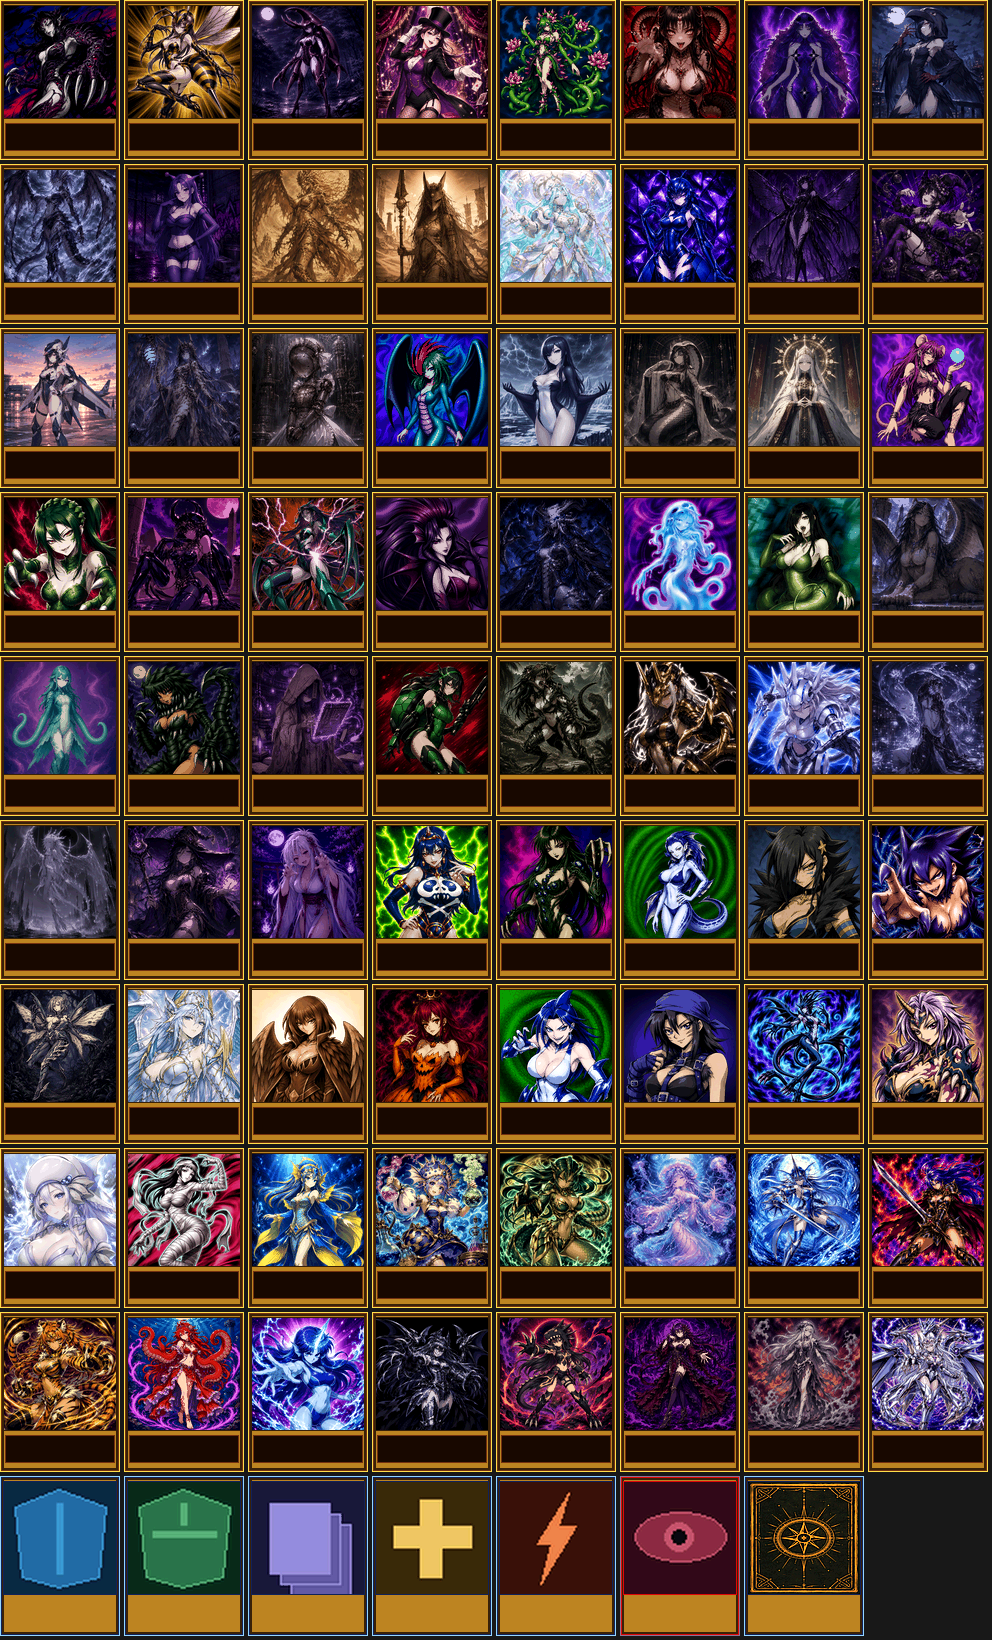
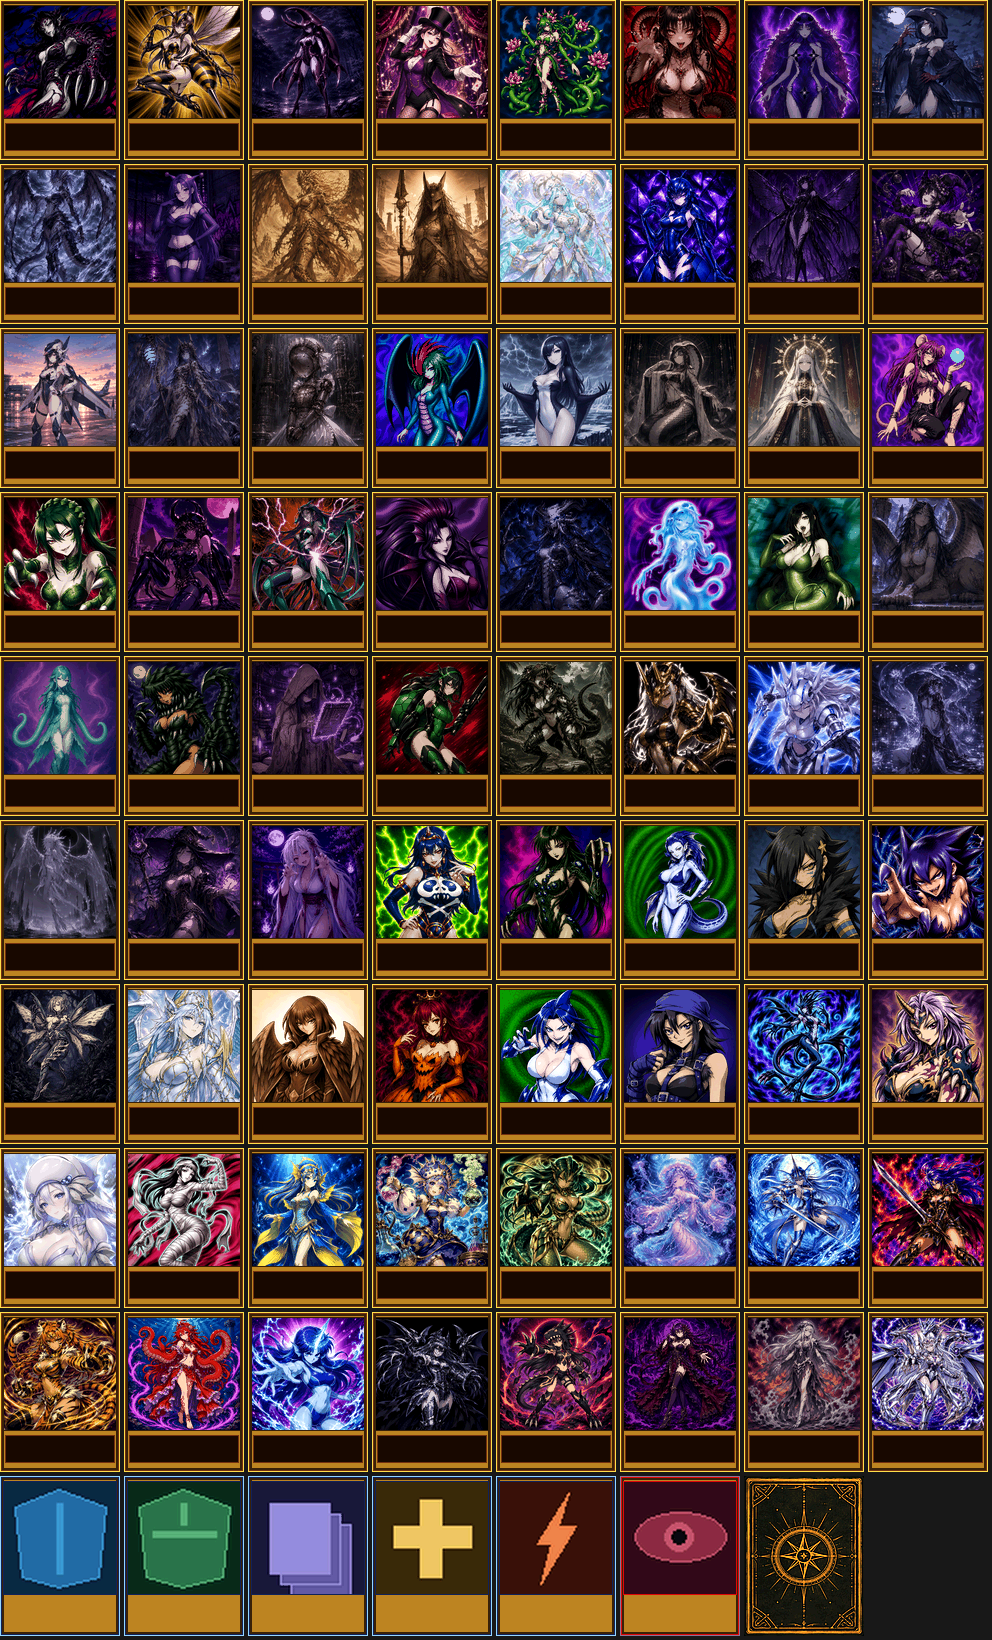
snes: reset the Mode 3 state on duel entry, bake the back card frameless
A duel decided inside the battle scene leaves through result_scene with
mode3_active still 2, so the next duel (a story battle after a random
one) began with an empty sprite list and its vblank routed to the battle:
no hand, no HUD text, until the COM's first attack cleared it through
end_battle_art.  snesDuelEnter now resets the whole Mode 3 presentation
state (mode3_active, the effect and fusion beats, fusion_tm/backdrop).

The back cover carries its own frame, so the Mode 3 card presentation no
longer draws it inside the gold one: gen_snes_bigcards.py bakes the cover
edge to edge across the 120x160, its bottom five tile rows following the
palette in the same bank slot, and snes_cardart.c puts those at their own
VRAM tiles ($5800, above the Thunder burst atlas) instead of the shared
frame feet.

Claude-Session: https://claude.ai/code/session_01DTXLHp6R6hpzhMk1MeJ7dF

Changed region(s): [[0.75, 0.9018, 0.875, 1.0]]

diff --git a/src/snes/snes_cardart.c b/src/snes/snes_cardart.c
@@ -19,6 +19,17 @@
 #define FONT_COUNT      64u
 #define FEET_TILE       (SNES_BIGCARD_TILES * 2u)
 #define FEET_WORD       (FEET_TILE * 32u)
+/* THE BACK'S OWN BOTTOM ROWS.  The cover painting carries its frame, so it
+ * is baked edge to edge and its feet are seventy-five tiles in ITS colours,
+ * not the shared frame's -- and those do not fit under BLANK_TILE.  They
+ * go to the words above the card sheet: $5800 is past the burst atlas the
+ * Thunder beat loads at $4000 (snes_battle.c FX_OBJ_WORD, 12 KB) and below
+ * the duel's OBJ sheet at $6000, which no Mode 3 screen samples.  Only the
+ * victim beat can show a back (the check refuses one, a defender is
+ * flipped before its battle), so the battle's layout never meets them. */
+#define BACK_FEET_WORD  0x5800u
+#define BACK_FEET_TILE  (BACK_FEET_WORD / 32u)
+#define BACK_FEET_TILES (SNES_BIGCARD_TILES_X * SNES_BIGCARD_FOOT_ROWS)
 #define TEXT_PRIORITY   0x2000u
 /* An empty BG2 cell is the space glyph: BG2's character base is $7000, and
  * tile 0 there is the duel's top-view map, not a blank. */
@@ -128,6 +139,9 @@ void snesCardArtEnter(u8 navy)
         dmaCopyVram((u8 *)&sym[off], dest, SNES_BIGCARD_BYTES); \
         dmaCopyCGram((u8 *)&sym[(off) + SNES_BIGCARD_BYTES], SLOT_PAL(slot), \
                      SNES_BIGCARD_PAL_BYTES); \
+        if (face == SNES_CARD_BACK) \
+            dmaCopyVram((u8 *)&sym[(off) + SNES_BIGCARD_RECORD], \
+                        BACK_FEET_WORD, SNES_BIGCARD_BACK_FEET_BYTES); \
     } while (0)
 
 void snesCardArtLoad(u8 slot, u8 face)
@@ -145,18 +159,34 @@ void snesCardArtLoad(u8 slot, u8 face)
          * each tile's last plane pair (bytes 49, 51, .. 63). */
         for (r = 0; r < 8; ++r)
             vram_fill_high((u16)(dest + 24u + r), SNES_BIGCARD_TILES);
+        /* ...and the back's feet with them: they are read through the
+         * slot that loaded the back last. */
+        if (face == SNES_CARD_BACK)
+            for (r = 0; r < 8; ++r)
+                vram_fill_high((u16)(BACK_FEET_WORD + 24u + r), BACK_FEET_TILES);
     }
 }
 
-void snesCardArtPlace(u8 slot, u8 col, u8 face)
+/* The map cell of foot tile (tx, ty) of a card in slot `slot`: the shared
+ * frame foot of its kind, or the back's own. */
+static u16 foot_cell(u8 slot, u8 face, u8 ty, u8 tx)
 {
-    u8 tx, ty, kind;
-    u16 base = (u16)slot * SNES_BIGCARD_TILES;
+    u8 kind;
     const u8 *foot;
+    (void)slot;
+    if (face == SNES_CARD_BACK)
+        return (u16)(BACK_FEET_TILE + (u16)ty * SNES_BIGCARD_TILES_X + tx);
     kind = (face < SNES_CARD_FACES) ? snesCardInfoFrame(face)
                                     : SNES_BIGCARD_KIND_MONSTER;
     foot = &snes_bigcard_feet_map[(u16)kind * SNES_BIGCARD_TILES_X *
                                   SNES_BIGCARD_FOOT_ROWS * 2u];
+    return (u16)(FEET_TILE + foot[((u16)ty * SNES_BIGCARD_TILES_X + tx) * 2]);
+}
+
+void snesCardArtPlace(u8 slot, u8 col, u8 face)
+{
+    u8 tx, ty;
+    u16 base = (u16)slot * SNES_BIGCARD_TILES;
     for (ty = 0; ty < SNES_BIGCARD_TOP_ROWS; ++ty)
         for (tx = 0; tx < SNES_BIGCARD_TILES_X; ++tx)
             bg1_map[(u16)ty * 32 + col + tx] =
@@ -164,8 +194,7 @@ void snesCardArtPlace(u8 slot, u8 col, u8 face)
     for (ty = 0; ty < SNES_BIGCARD_FOOT_ROWS; ++ty)
         for (tx = 0; tx < SNES_BIGCARD_TILES_X; ++tx)
             bg1_map[(u16)(SNES_BIGCARD_TOP_ROWS + ty) * 32 + col + tx] =
-                (u16)(FEET_TILE +
-                      foot[((u16)ty * SNES_BIGCARD_TILES_X + tx) * 2]);
+                foot_cell(slot, face, ty, tx);
     bg1_dirty = 1;
 }
 
@@ -173,20 +202,14 @@ void snesCardArtPlace(u8 slot, u8 col, u8 face)
  * for a map that is not this file's: the battle's 32x64 one. */
 void snesCardArtRowCells(u8 slot, u8 face, u8 ty, u16 *cells)
 {
-    u8 tx, kind;
+    u8 tx;
     const u16 base = (u16)slot * SNES_BIGCARD_TILES;
-    const u8 *foot;
-    kind = (face < SNES_CARD_FACES) ? snesCardInfoFrame(face)
-                                    : SNES_BIGCARD_KIND_MONSTER;
-    foot = &snes_bigcard_feet_map[(u16)kind * SNES_BIGCARD_TILES_X *
-                                  SNES_BIGCARD_FOOT_ROWS * 2u];
     for (tx = 0; tx < SNES_BIGCARD_TILES_X; ++tx) {
         if (ty < SNES_BIGCARD_TOP_ROWS)
             cells[tx] = (u16)(base + ty * SNES_BIGCARD_TILES_X + tx);
         else
-            cells[tx] = (u16)(FEET_TILE +
-                              foot[((u16)(ty - SNES_BIGCARD_TOP_ROWS) *
-                                    SNES_BIGCARD_TILES_X + tx) * 2]);
+            cells[tx] = foot_cell(slot, face,
+                                  (u8)(ty - SNES_BIGCARD_TOP_ROWS), tx);
     }
 }
 

diff --git a/tools/snes/gen_snes_bigcards.py b/tools/snes/gen_snes_bigcards.py
@@ -60,6 +60,7 @@ CARD_COLOURS = 80
 CARD_FIRST = 32
 CARD_PAL_BYTES = CARD_COLOURS * 2
 CARD_RECORD = CARD_BYTES + CARD_PAL_BYTES
+BACK_FEET_BYTES = TILES_X * BOTTOM_ROWS * 64   # the back's own bottom rows
 CARDS_PER_BANK = 4
 FIRST_BANK = 30                 # $DE..; the OBJ sheets end at $CC
 COMMON_BANK = 50                # the frame feet and the card info table
@@ -238,7 +239,34 @@ def big_art(tag, path):
     return ga.face_art(tag, None, (ART, ART)).convert("RGB")
 
 
+def back_record():
+    """THE BACK IS ITS OWN FRAME, so it is not put inside the gold one: the
+    cover painting is fitted to the whole 120x160 and quantised as one
+    picture.  Its top fifteen tile rows are a record like any other; its
+    bottom five -- the seventy-five tiles the shared feet cannot hold in
+    its colours -- follow the palette in the same bank slot, and the runtime
+    puts them at their own VRAM tiles (snes_cardart.c BACK_FEET_TILE)."""
+    art = ga.card_back_art((CARD_W, CARD_H))
+    indexed = art.quantize(colors=CARD_COLOURS, method=Image.Quantize.MEDIANCUT,
+                           dither=Image.Dither.FLOYDSTEINBERG)
+    raw = indexed.getpalette()[:CARD_COLOURS * 3]
+    colours = [tuple(raw[i:i + 3]) for i in range(0, len(raw), 3)]
+    colours += [(0, 0, 0)] * (CARD_COLOURS - len(colours))
+    frame = [v + CARD_FIRST for v in indexed.getdata()]
+    tiles = bytearray()
+    for block in cut_tiles(frame, CARD_W, 0, 0, TILES_X, TOP_H // 8):
+        tiles += tile8(block)
+    assert len(tiles) == CARD_BYTES
+    feet = bytearray()
+    for block in cut_tiles(frame, CARD_W, 0, TOP_H, TILES_X, BOTTOM_ROWS):
+        feet += tile8(block)
+    assert len(feet) == BACK_FEET_BYTES
+    return bytes(tiles) + palette_bytes(colours) + bytes(feet), frame, colours
+
+
 def card_record(tag, path):
+    if tag == "back":
+        return back_record()
     art = big_art(tag, path)
     indexed = art.quantize(colors=CARD_COLOURS, method=Image.Quantize.MEDIANCUT,
                            dither=Image.Dither.FLOYDSTEINBERG)
@@ -407,6 +435,8 @@ def main():
                  "#define SNES_BIGCARD_FIRST_BANK %d\n"
                  "#define SNES_BIGCARD_BANKS      %d\n"
                  "#define SNES_BIGCARD_FEET_TILES %d\n"
+                 "/* The back's own bottom rows, after its record's palette. */\n"
+                 "#define SNES_BIGCARD_BACK_FEET_BYTES %d\n"
                  "#define SNES_BIGCARD_KIND_MONSTER 0\n"
                  "#define SNES_BIGCARD_KIND_SPELL   1\n"
                  "#define SNES_BIGCARD_KIND_TRAP    2\n"
@@ -423,7 +453,7 @@ def main():
                  % (CARD_W, CARD_H, TILES_X, TOP_H // 8, BOTTOM_ROWS, TOP_TILES,
                     CARD_BYTES, CARD_COLOURS, CARD_FIRST, CARD_PAL_BYTES,
                     CARD_RECORD, CARDS_PER_BANK, FIRST_BANK, banks,
-                    len(feet_tiles) // 64,
+                    len(feet_tiles) // 64, BACK_FEET_BYTES,
                     INFO_NAME_LEN, INFO_KIND_LEN, INFO_DESC_LEN, INFO_RECORD))
         for b in range(banks):
             fh.write("extern const u8 snes_bigcards_%d[];\n" % (FIRST_BANK + b))

diff --git a/src/snes/snes_duel.c b/src/snes/snes_duel.c
@@ -3166,6 +3166,26 @@ void snesDuelEnter(void)
     over_step = 0;
     check_face = SNES_CARD_NONE_FACE;
     check_has_stats = 0;
+    /* THE MODE 3 PRESENTATION STATE IS RESET HERE, NOT ONLY ON ITS WAY OUT.
+     * A duel decided inside the battle scene leaves through result_scene
+     * with mode3_active still 2 (the verdict is shown there, snes_battle.c),
+     * and the next duel -- a story duel after a random one -- then began
+     * with build_objects emitting an empty list and vblank routed to
+     * snesBattleVblank: no hand, no HUD text, until the COM's first attack
+     * went through end_battle_art and cleared it. */
+    mode3_active = 0;
+    battle_frame = 0;
+    effect_frame = 0;
+    effect_fx = 0;
+    effect_card = MSX2_CARD_NONE;
+    effect_victim_n = 0;
+    effect_victim_shown = MSX2_SLOT_NONE;
+    fusion_frame = 0;
+    fusion_result = MSX2_CARD_NONE;
+    fusion_success = 0;
+    fusion_mat_n = 0;
+    fusion_tm = 0x11;
+    fusion_backdrop = 0;
     texture_w = texture_h = 0;
     pattern_mode = 0;
     next_pool = 0;

diff --git a/src/snes/snes_bigcard_data.h b/src/snes/snes_bigcard_data.h
@@ -21,6 +21,8 @@
 #define SNES_BIGCARD_FIRST_BANK 30
 #define SNES_BIGCARD_BANKS      20
 #define SNES_BIGCARD_FEET_TILES 23
+/* The back's own bottom rows, after its record's palette. */
+#define SNES_BIGCARD_BACK_FEET_BYTES 4800
 #define SNES_BIGCARD_KIND_MONSTER 0
 #define SNES_BIGCARD_KIND_SPELL   1
 #define SNES_BIGCARD_KIND_TRAP    2
